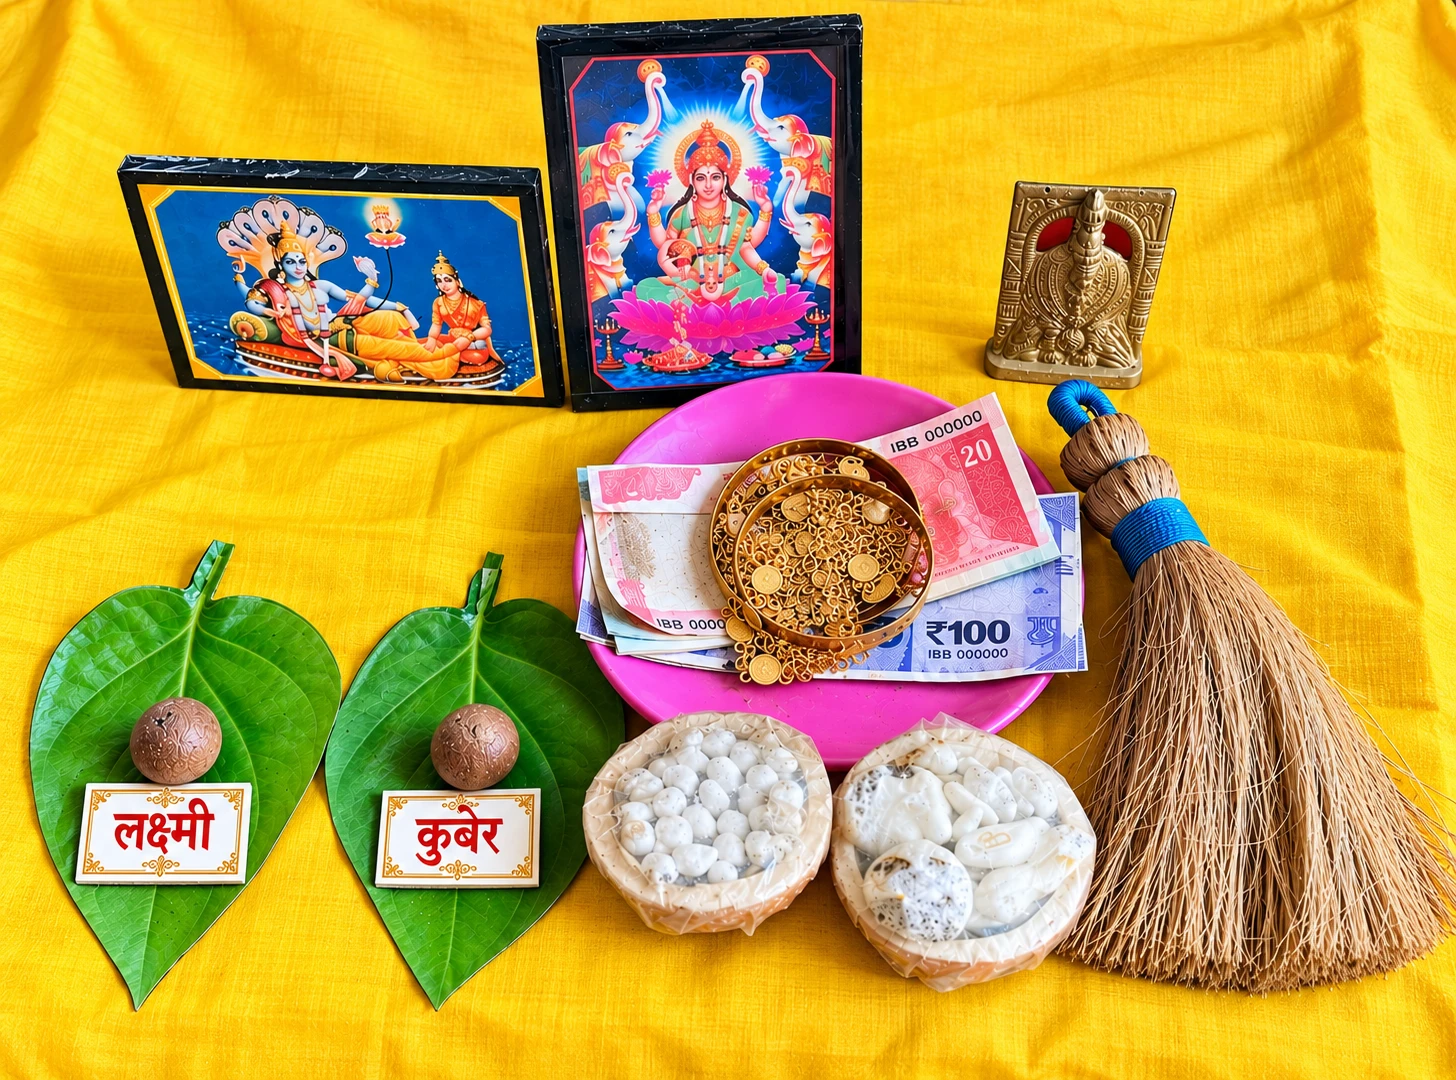
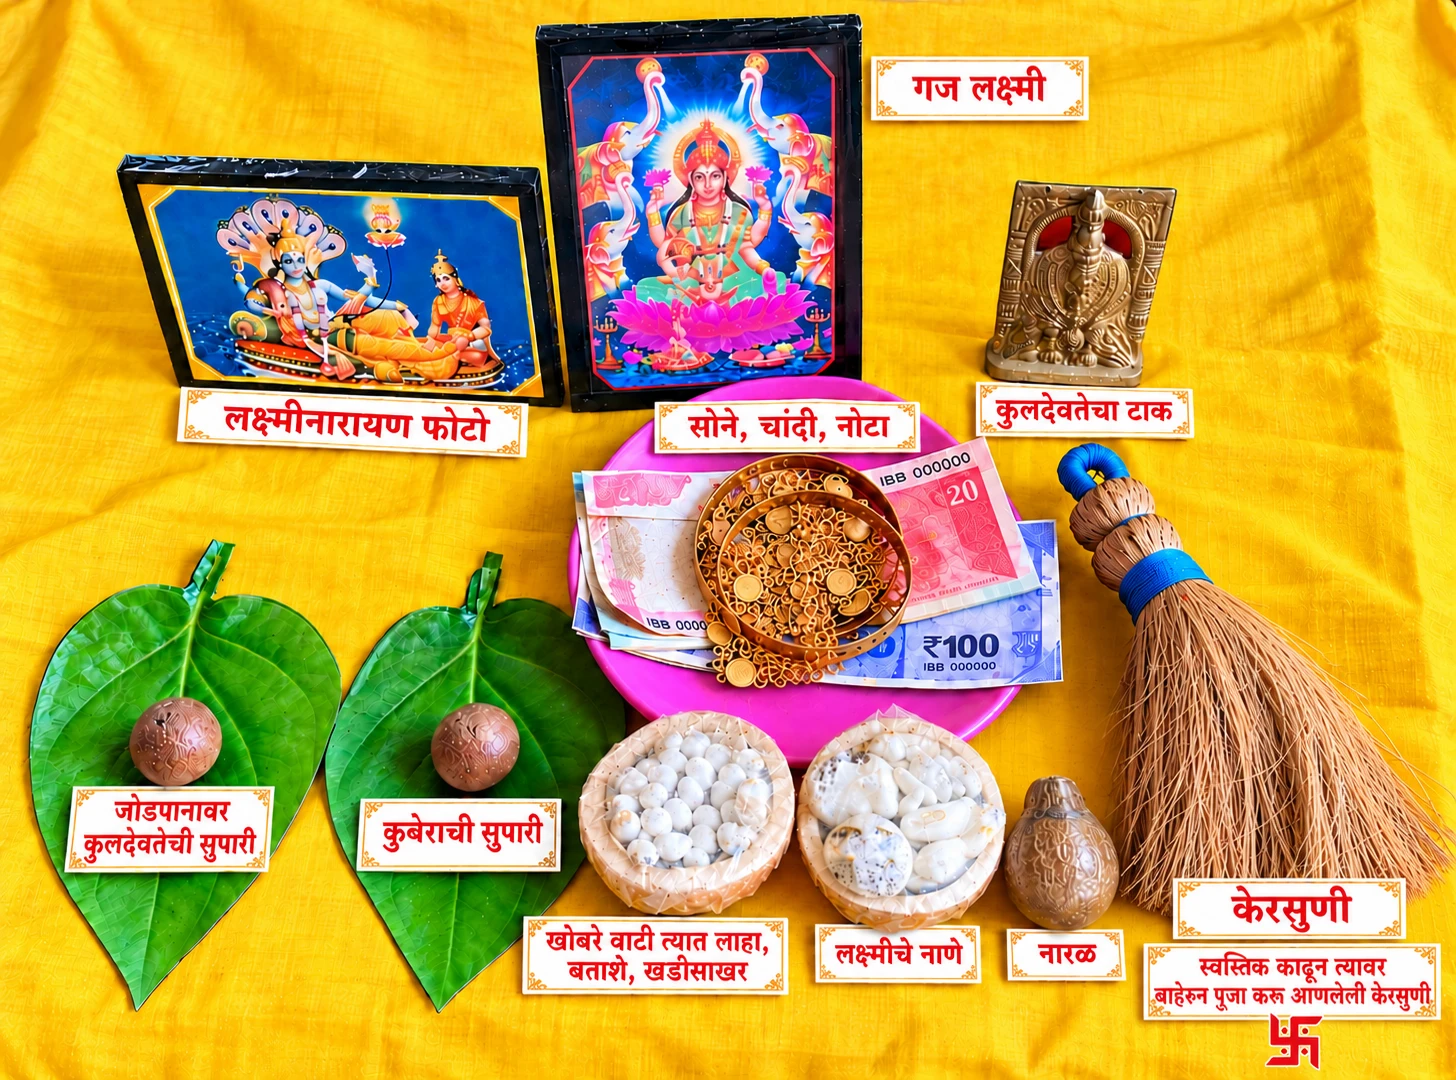
लक्ष्मीपूजन फोटो परत बदलला — प्रत्येक वस्तूचे नाव लेबल केलेला सविस्तर फोटो
Claude-Session: https://claude.ai/code/session_01TqV3C5SpsQSXCmkhGwRKbq

diff --git a/index.html b/index.html
@@ -3297,7 +3297,7 @@ footer{text-align:center;margin-top:30px;font-size:14px;color:var(--shai-soft);l
         <div class="accbody">
           <p><b>❋ कार्यकारणभाव</b> — बलिच्या बंदिवासातून माता लक्ष्मीची सुटका, लक्ष्मीकारक व्रतांपैकी एक.</p>
           <p><b>❋ पूजा मांडणी</b></p>
-          <img src="assets/images/lakshmi-kuber-pujan-mandani.webp" alt="लक्ष्मी-कुबेर पूजा मांडणी — विष्णु-लक्ष्मी व गजलक्ष्मी फोटो, कुलदेवतेचा टाक, नाणी-नोटा-सोने ठेवलेले ताट, 'लक्ष्मी' व 'कुबेर' असे लेबल लावलेल्या सुपाऱ्या ठेवलेली विड्याची पाने, साळीच्या लाह्या व नवीन केरसुणी" style="width:100%;max-width:420px;display:block;margin:0 auto;border-radius:12px">
+          <img src="assets/images/lakshmi-kuber-pujan-mandani.webp" alt="लक्ष्मी-कुबेर पूजा मांडणी — लक्ष्मीनारायण फोटो, गज लक्ष्मी, कुलदेवतेचा टाक, सोने-चांदी-नोटा, जोडपानावर कुलदेवतेची व कुबेराची सुपारी, खोबरे वाटीत लाह्या-बताशे-खडीसाखर, लक्ष्मीचे नाणे, नारळ व नवीन केरसुणी — सर्व वस्तूंची नावे फोटोत लेबल केलेली" style="width:100%;max-width:420px;display:block;margin:0 auto;border-radius:12px">
           <p><b>❋ पूजा साहित्य</b> — गंध, अक्षता, हळदी-कुंकू, फुले (शक्यतो पांढरी रुई, पांढरी जास्वंदी, पांढरी शेवंती, पांढरी कन्हेर, झेंडू इ.) तुळशी पत्र, निरांजन, धूप, नागवेलीची पाने, खारीक, बदाम, नाणे, पाण्याचा तांब्या, नैवेद्यासाठी पुरणपोळी, साळीच्या लाह्या, बत्ताशे, गूळ, धने यांचा नैवेद्य, फराळाचे पदार्थ, फळे, रांगोळी इ. (श्रीगुरुपीठ सिद्ध-श्रीयंत्र (श्रीचक्राज यंत्र) (श्रीयंत्र कागदी असेल तरी चालेल), श्रीगुरुपीठ सिद्ध-लक्ष्मी-कुबेर यंत्र)</p>
           <p><b>❋ ग्रंथ</b> — नित्यसेवा, श्री दुर्गा सप्तशती, श्री स्वामी समर्थ सेवा मासिक अंक, श्री विष्णुसहस्रनाम व श्री ललिता सहस्रनाम ग्रंथ, नवीन वर्षाची दिनदर्शिका (कॅलेंडर) व नवीन वर्षाची स्मरणिका (डायरी) इ.</p>
           <p><b>❋ पूजा मांडणी व पूर्वतयारी</b></p>
